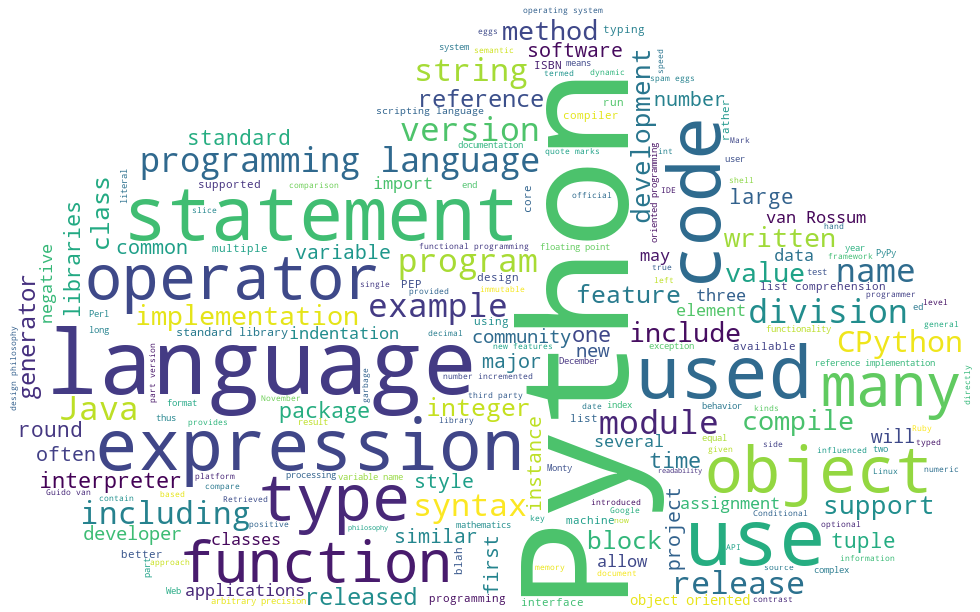
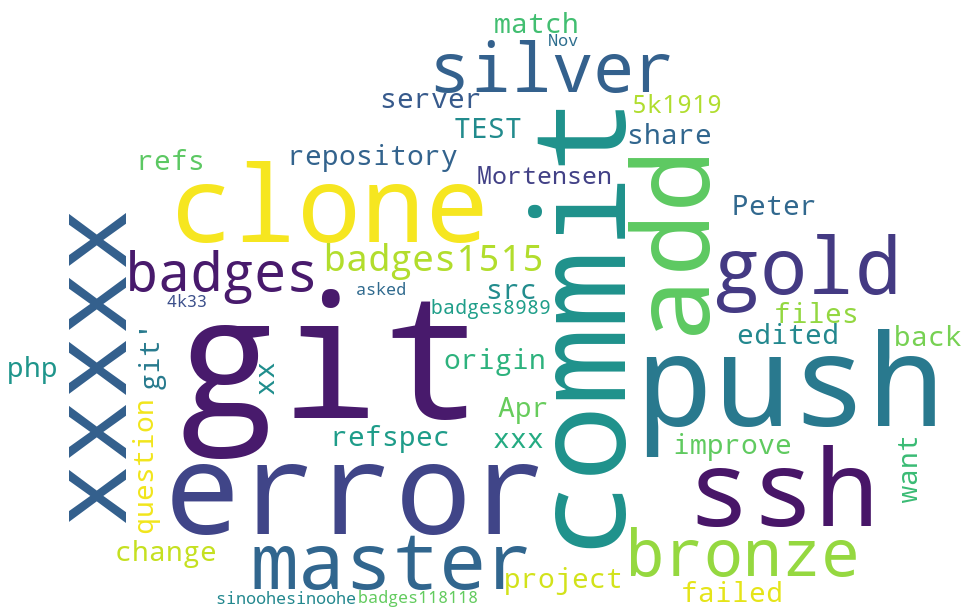
add stack wordcloud

diff --git a/mystack.py b/mystack.py
@@ -1,0 +1,21 @@
+from wordcloud import WordCloud, STOPWORDS
+import os
+from PIL import Image
+import numpy as np
+import requests
+from bs4 import BeautifulSoup
+currdir = os.path.dirname(__file__)
+
+def get_page_text(url):
+    resp = requests.get(url)
+    soup = BeautifulSoup(resp.text, 'lxml')
+    text = soup.body.find('div', {"class": ["postcell post-layout--right"]})
+    return text.text
+def create_wordcloud(text, outFile):
+    mask = np.array(Image.open(os.path.join(currdir, "cloud.png")))
+    stopwords = set(STOPWORDS)
+    wc = WordCloud(stopwords=stopwords, mask=mask, background_color="white", max_words=200)
+    wc.generate(text)
+    wc.to_file(os.path.join(currdir, outFile))
+#print(get_page_text("https://stackoverflow.com/questions/4181861/message-src-refspec-master-does-not-match-any-when-pushing-commits-in-git"))
+create_wordcloud(get_page_text("https://stackoverflow.com/questions/4181861/message-src-refspec-master-does-not-match-any-when-pushing-commits-in-git"), "stack.png")
